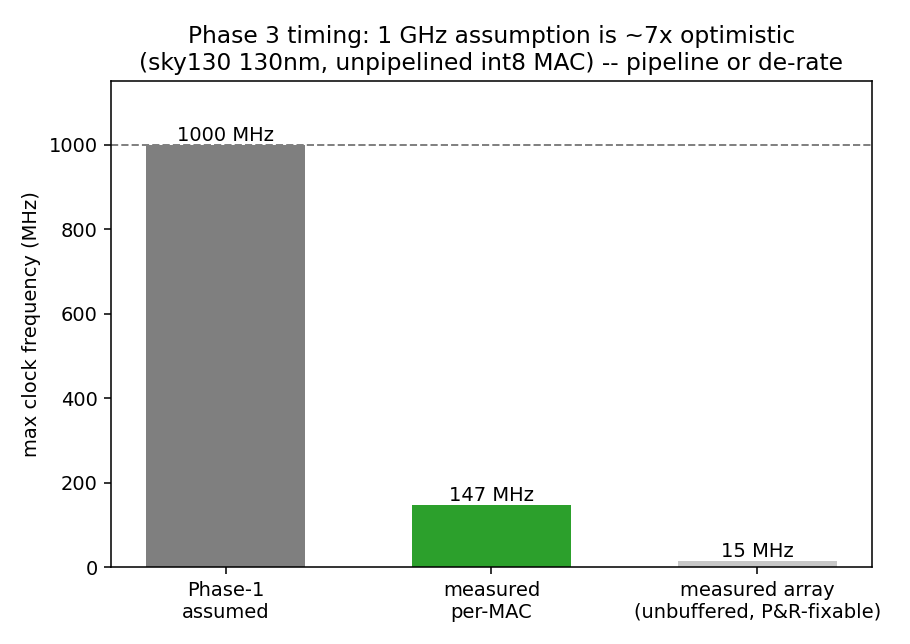
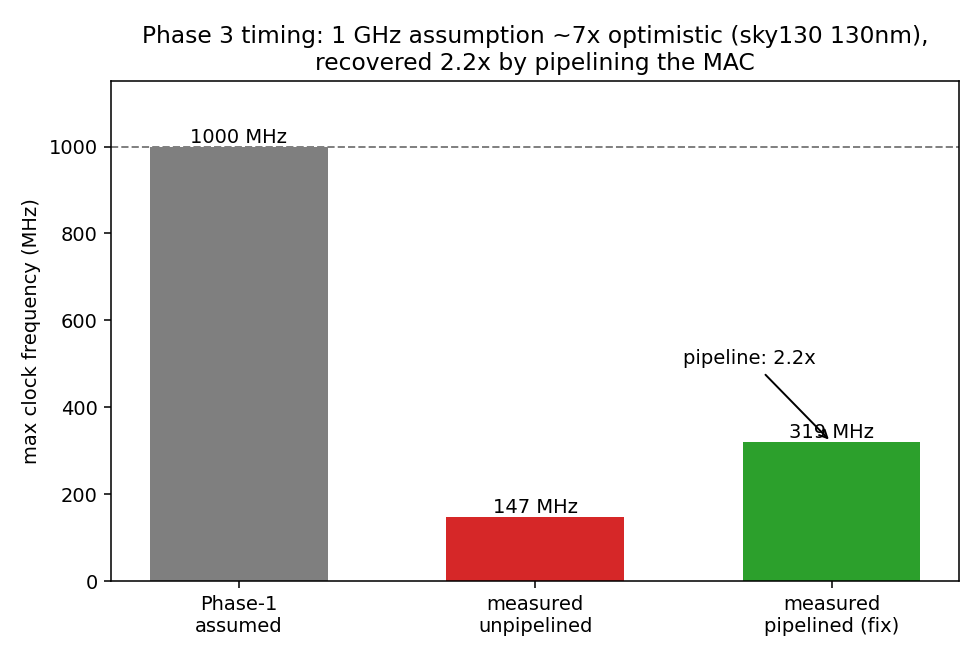
Phase 3: pipeline the MAC -> 2.2x frequency recovery (fix, not just diagnosis)
Follow-through on the timing finding. mac_int8_pipe.sv adds one register between
the multiplier and the accumulate-adder, splitting the critical path; costs one
cycle of latency (en pipelined; drive en low one extra cycle to flush).

- Functional: tb_mac_array_pipe.sv self-checks 20/20 random matmul trials.
- Timing: per-MAC critical path 6.8 ns -> 3.1 ns, Fmax ~147 -> ~319 MHz (2.2x).

So the timing story is now diagnosis AND fix: the 1 GHz assumption was ~7x
optimistic, and pipelining recovers 2.2x of it by microarchitecture (further
stages would recover more, each at a latency cost). run_sim.sh and timing.sh now
cover both variants; compare_timing.py + fig_timing.png show the recovery.

diff --git a/rtl/compare_timing.py b/rtl/compare_timing.py
@@ -1,49 +1,55 @@
 #!/usr/bin/env python3
 """
 Phase 3 timing: measured Fmax (yosys + ABC gate-level STA, sky130 130nm) vs the
-Phase-1 1 GHz clock assumption.
+Phase-1 1 GHz clock assumption -- diagnosis AND fix.
 
 The meaningful limit is the PER-MAC critical path: the array's 64 MACs run in
 parallel, so the register-to-register path is one PE's multiply + accumulate.
-(The array-level unbuffered number is ~64 ns, but that is a high-fanout broadcast
-artifact of synthesis-without-buffering that place-and-route resolves -- it is not
-the architectural limit, so we headline the per-MAC number and note the array
-value as the P&R-fixable pessimistic bound.)
+
+  DIAGNOSIS: unpipelined single-cycle MAC -> 6.8 ns -> ~147 MHz. The 1 GHz
+             assumption was ~7x optimistic.
+  FIX:       one pipeline register between the multiplier and the accumulate-adder
+             splits the path -> 3.1 ns -> ~319 MHz (2.2x), for one cycle of added
+             latency. Further stages (split the multiplier / the 32b adder) would
+             recover more, each at a latency cost.
 """
 import os
 import matplotlib
 matplotlib.use("Agg")
 import matplotlib.pyplot as plt
 
-PE_PS  = 6816.91     # single MAC PE, delay-mapped   (rtl/reports/pe_timing.rpt)
-ARR_PS = 64687.31    # 8x8 array, unbuffered broadcast (fanout-limited)
-ASSUMED_MHZ = 1000.0 # Phase-1 predicted clock (1 GHz)
+UNPIPE_PS = 6816.91   # unpipelined MAC PE (rtl/reports/pe_timing.rpt)
+PIPE_PS   = 3130.22   # pipelined MAC PE   (rtl/reports/pe_pipe_timing.rpt)
+ASSUMED_MHZ = 1000.0  # Phase-1 predicted clock (1 GHz)
 
-pe_mhz  = 1e6 / PE_PS
-arr_mhz = 1e6 / ARR_PS
+unpipe_mhz = 1e6 / UNPIPE_PS
+pipe_mhz   = 1e6 / PIPE_PS
 
-print(f"per-MAC critical path : {PE_PS/1000:5.2f} ns  -> Fmax {pe_mhz:6.0f} MHz")
-print(f"array (unbuffered)    : {ARR_PS/1000:5.1f} ns  -> Fmax {arr_mhz:6.0f} MHz  (P&R-fixable)")
-print(f"Phase-1 assumption    : {ASSUMED_MHZ:6.0f} MHz (1 GHz)")
-print(f"\n=> the 1 GHz clock is ~{ASSUMED_MHZ/pe_mhz:.1f}x optimistic for an unpipelined")
-print("   single-cycle int8 MAC in sky130 (130 nm). The AREA prediction held to")
-print("   ~1x, but the CLOCK (hence latency/throughput) did NOT -- de-rate it, or")
-print("   pipeline the MAC (register the multiplier output) to recover frequency.")
-print("Caveat: ABC gate-level STA, no wireload/P&R; a real OpenSTA/OpenLane sign-off")
-print("   would refine both numbers (per-MAC up a little, array down a lot).")
+print(f"Phase-1 assumption        : {ASSUMED_MHZ:6.0f} MHz (1 GHz)")
+print(f"measured, unpipelined     : {UNPIPE_PS/1000:5.2f} ns -> {unpipe_mhz:4.0f} MHz "
+      f"({ASSUMED_MHZ/unpipe_mhz:.1f}x optimistic)")
+print(f"measured, pipelined (fix) : {PIPE_PS/1000:5.2f} ns -> {pipe_mhz:4.0f} MHz "
+      f"({pipe_mhz/unpipe_mhz:.2f}x recovery, +1 cycle latency)")
+print("\n=> Diagnosis: the 1 GHz clock was unrealistic for an unpipelined int8 MAC")
+print("   in 130 nm. Fix: pipeline the MAC -> 2.2x faster. Area held; the clock")
+print("   assumption did not, but it is recoverable by microarchitecture, not luck.")
+print("Caveat: ABC gate-level STA (no wireload/P&R); OpenSTA/OpenLane would refine.")
 
-fig, ax = plt.subplots(figsize=(6.5, 4.6))
-labels = ["Phase-1\nassumed", "measured\nper-MAC", "measured array\n(unbuffered, P&R-fixable)"]
-vals   = [ASSUMED_MHZ, pe_mhz, arr_mhz]
-colors = ["tab:gray", "tab:green", "#c7c7c7"]
+fig, ax = plt.subplots(figsize=(7, 4.7))
+labels = ["Phase-1\nassumed", "measured\nunpipelined", "measured\npipelined (fix)"]
+vals   = [ASSUMED_MHZ, unpipe_mhz, pipe_mhz]
+colors = ["tab:gray", "tab:red", "tab:green"]
 bars = ax.bar(labels, vals, color=colors, width=0.6)
 for b, v in zip(bars, vals):
     ax.text(b.get_x()+b.get_width()/2, v, f"{v:.0f} MHz", ha="center", va="bottom")
 ax.axhline(ASSUMED_MHZ, ls="--", color="tab:gray", lw=1)
+ax.annotate(f"pipeline: {pipe_mhz/unpipe_mhz:.1f}x",
+            xy=(2, pipe_mhz), xytext=(1.5, pipe_mhz + 180),
+            arrowprops=dict(arrowstyle="->"))
 ax.set_ylabel("max clock frequency (MHz)")
-ax.set_title(f"Phase 3 timing: 1 GHz assumption is ~{ASSUMED_MHZ/pe_mhz:.0f}x optimistic\n"
-             f"(sky130 130nm, unpipelined int8 MAC) -- pipeline or de-rate")
-ax.set_ylim(0, ASSUMED_MHZ*1.15)
+ax.set_title("Phase 3 timing: 1 GHz assumption ~7x optimistic (sky130 130nm),\n"
+             "recovered 2.2x by pipelining the MAC")
+ax.set_ylim(0, ASSUMED_MHZ * 1.15)
 plt.tight_layout()
 out = os.path.join(os.path.dirname(os.path.abspath(__file__)), "..", "fig_timing.png")
 plt.savefig(out, dpi=140)

diff --git a/rtl/README.md b/rtl/README.md
@@ -12,6 +12,8 @@ pre-RTL in Phase 1: a real predicted-vs-measured experiment.
 | `mac_int8.sv`      | one int8×int8 multiply-accumulate PE (output-stationary) |
 | `mac_array_8x8.sv` | 8×8 array = 64 MACs; computes an 8×8 output tile of a matmul (pointwise conv) |
 | `tb_mac_array.sv`  | self-checking testbench: 20 random trials vs a golden matmul |
+| `mac_int8_pipe.sv` / `mac_array_8x8_pipe.sv` | pipelined PE/array (reg between mult and adder) — the timing fix |
+| `tb_mac_array_pipe.sv` | self-checking TB for the pipelined array (+1 flush cycle) |
 | `synth.ys`         | yosys: synth → map to sky130hd → area report |
 | `compare_area.py`  | predicted (Accelergy 45 nm) vs measured (sky130 130 nm) |
 | `run_sim.sh` / `run_synth.sh` | one-command flows |
@@ -35,12 +37,13 @@ python3 compare_timing.py    # predicted vs measured clock
   (~615k), agrees to within ~1×. The pre-RTL model's **relative** ranking is
   validated outright and its **absolute** area to a small factor once node + P&R
   are applied — exactly the "DSE is relative" caveat, now quantified.
-- **Predicted vs measured TIMING:** gate-level STA (yosys+ABC, sky130) puts the
-  per-MAC critical path at **6.8 ns → ~147 MHz**, so the Phase-1 **1 GHz clock
-  was ~7× optimistic** for an unpipelined single-cycle int8 MAC in 130 nm. So
-  area held but the clock did not: de-rate the latency/throughput numbers, or
-  pipeline the MAC (register the multiplier output). This is the honest other
-  half of the loop — the prediction that *missed*, and why.
+- **Predicted vs measured TIMING (diagnosis + fix):** gate-level STA (yosys+ABC,
+  sky130) puts the unpipelined per-MAC critical path at **6.8 ns → ~147 MHz**, so
+  the Phase-1 **1 GHz clock was ~7× optimistic** in 130 nm. **Fix:** one pipeline
+  register between the multiplier and the accumulate-adder → **3.1 ns → ~319 MHz
+  (2.2×)** for one cycle of latency (functionally re-verified, 20/20). So area
+  held, the clock didn't — but the shortfall is recoverable by microarchitecture,
+  not luck. Further stages would recover more, each at a latency cost.
 
 ## Not done yet
 - **Sign-off timing / place-and-route** (OpenSTA + OpenLane) would refine the STA
